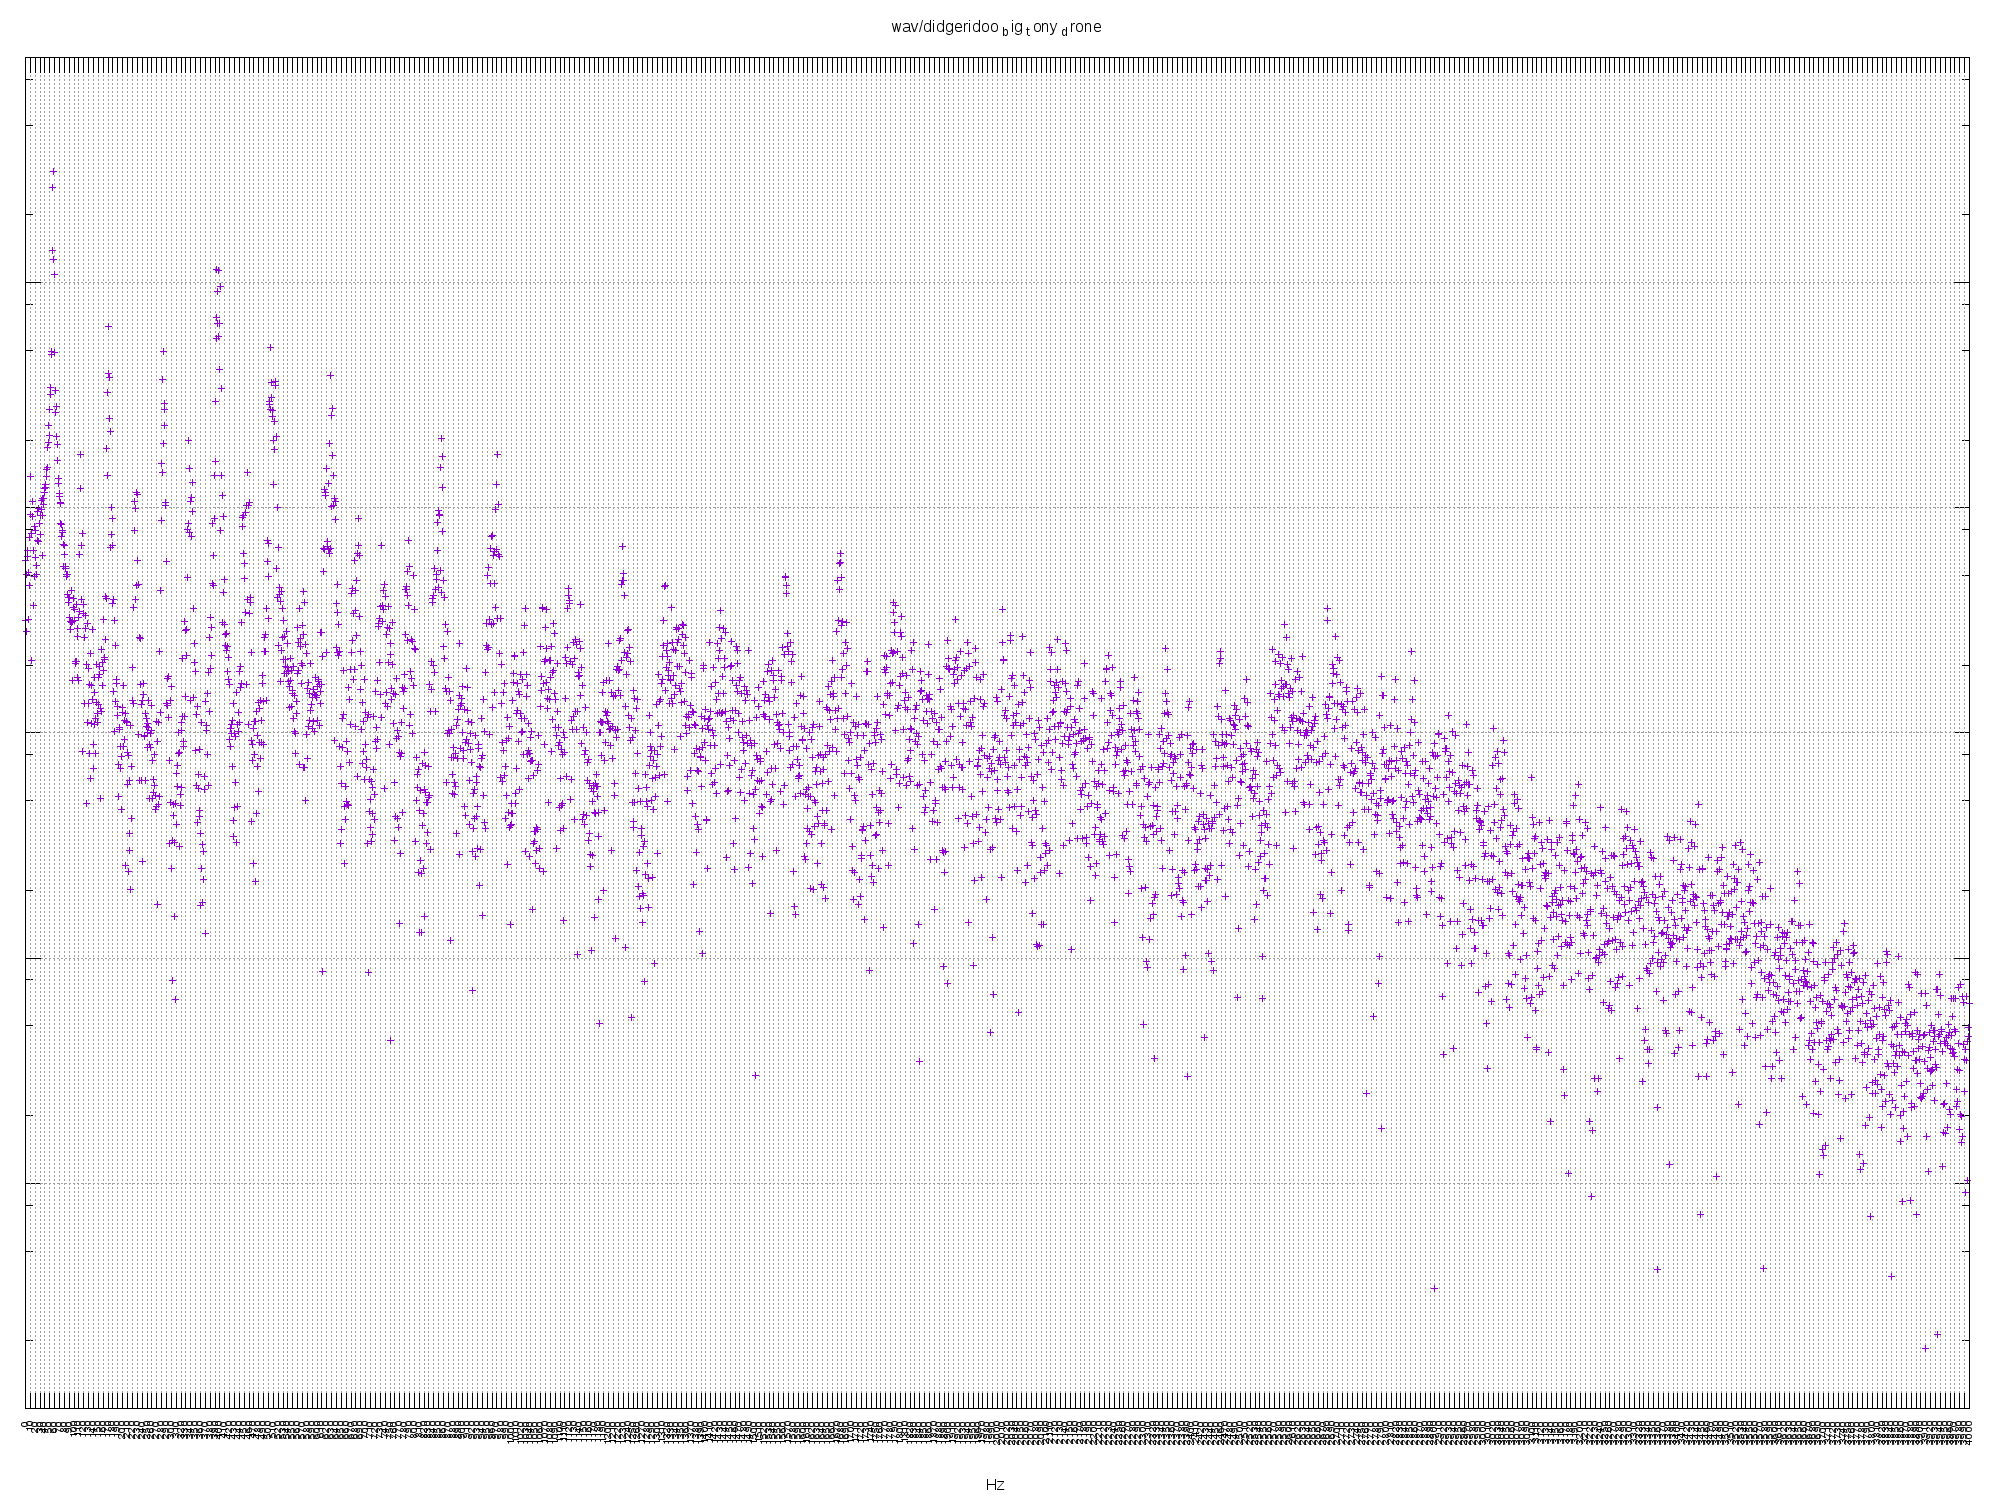
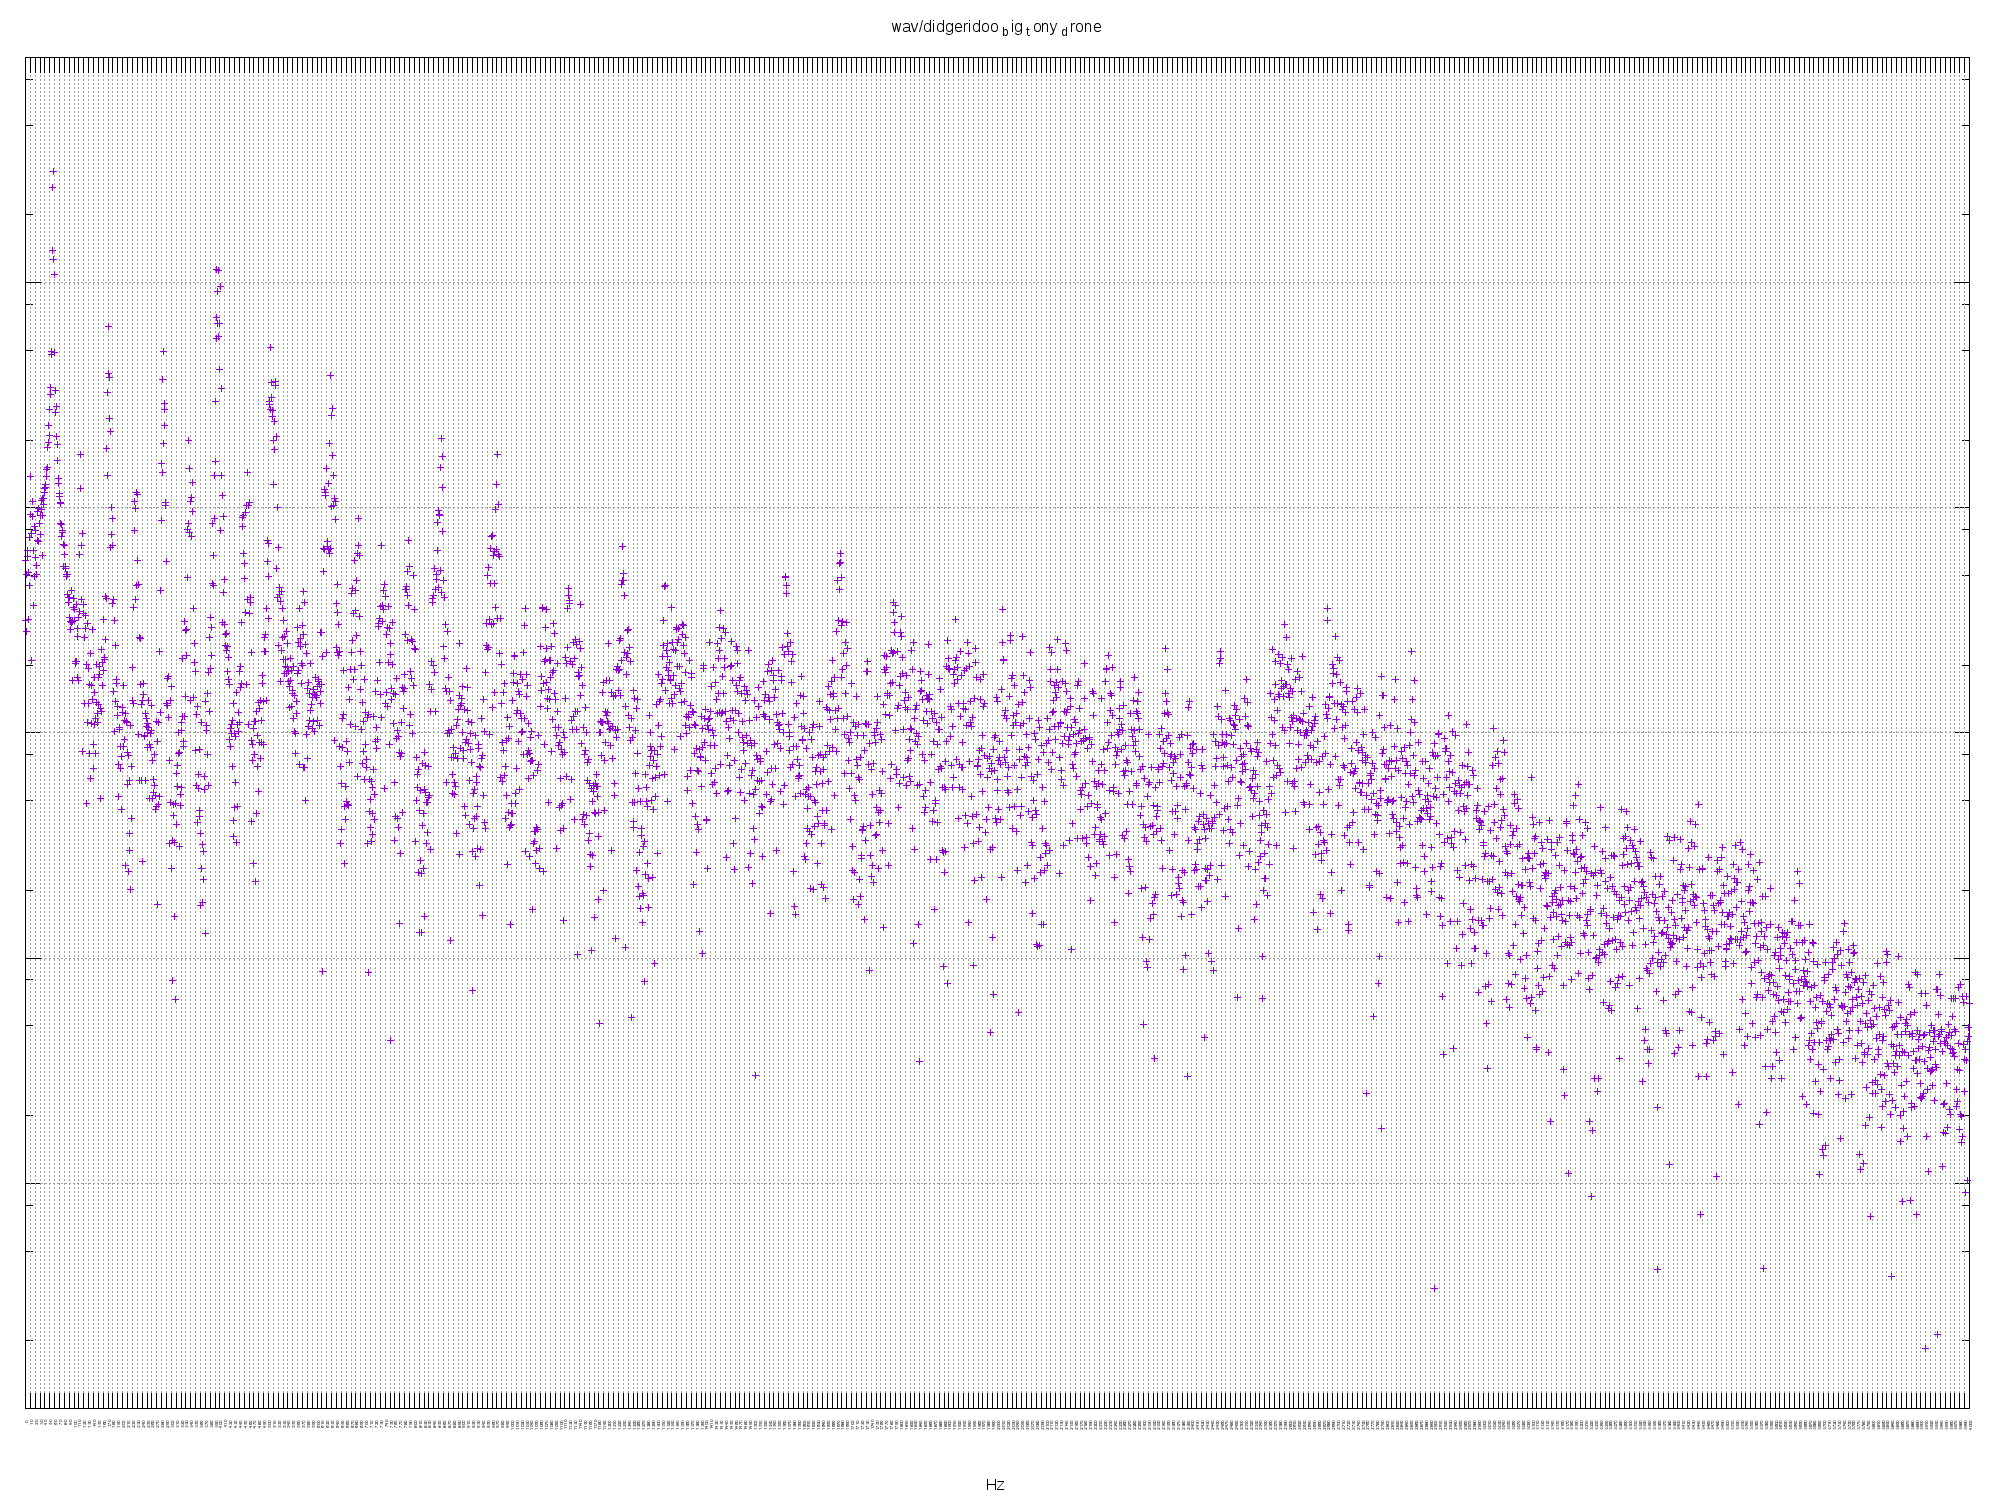
Break alg into lambda, add one to reported max

Changed region(s): [[0.031, 0.92, 0.992, 0.9813]]

diff --git a/dft.cpp b/dft.cpp
@@ -31,7 +31,7 @@ int main(int argc, char **argv) {
       (argc > 1 ? argv[1] : "wav/didgeridoo_big_tony_drone.wav");
 
   // Check audio file is good
-  std::ifstream audio(audio_file, std::ios::binary);
+  std::ifstream audio(audio_file);
   if (audio.good()) {
 
     // Read WAV header
@@ -41,7 +41,6 @@ int main(int argc, char **argv) {
     std::vector<short> samples(8000);
     audio.read(reinterpret_cast<char *>(samples.data()),
                samples.size() * sizeof(short));
-    // std::vector<short> samples(std::istreambuf_iterator<short>(audio), {});
 
     // Analyse samples
     const auto &dft = dft::calculate(std::cbegin(samples), std::cend(samples));
@@ -66,7 +65,7 @@ int main(int argc, char **argv) {
                  << "set xtics rotate\n"
                  << "set xlabel \"Hz\"\n"
                  << "set grid xtics ytics\n"
-                 << "set tics font \"Helvetica,5\"\n"
+                 << "set tics font \"Helvetica,3\"\n"
                  << "set logscale y\n"
                  << "plot \"" << basename + ".csv\" notitle\n";
 
@@ -75,11 +74,13 @@ int main(int argc, char **argv) {
     gnuplot_file.close();
 
     // Report index of highest peak and current input file name
-    std::puts((std::to_string(std::distance(
-                   std::cbegin(dft),
-                   std::max_element(std::cbegin(dft), std::cend(dft)))) +
-               " Hz\t" + audio_file)
-                  .c_str());
+    std::puts(
+        (std::to_string(std::distance(std::cbegin(dft),
+                                      (std::max_element(std::cbegin(dft),
+                                                        std::cend(dft)))) +
+                        1) +
+         " Hz\t" + audio_file)
+            .c_str());
 
     // Call plotter
     const std::string command{"/usr/bin/gnuplot " + basename + ".gnuplot"};

diff --git a/dft.h b/dft.h
@@ -26,6 +26,8 @@ namespace dft {
 template <typename Iterator>
 auto calculate(const Iterator begin, const Iterator end) {
 
+  using namespace std::complex_literals;
+
   // This routine will return the results as a container of frequency bins.
   std::vector<double> dft;
 
@@ -40,18 +42,18 @@ auto calculate(const Iterator begin, const Iterator end) {
   // counter is used to avoid a cast in the subsequent calculation.
   for (double k = 0.0; k < total_samples / 2; ++k) {
 
+    // Definition of our Fourier function
+    const auto sinusoidal =
+        [ n = 0.0, &total_samples, &k ](const auto &sample) mutable {
+      return exp(2i * M_PI * k * n++ / total_samples) * double(sample);
+    };
+
     // Iterate over all samples for the current bin index (k), calculate the
     // response and store the result. Note the sample index (n) is incremented
     // during the calculation. See the Wikipedia link above for the details of
     // the algorithm.
     std::vector<std::complex<double>> fou;
-    std::transform(begin, end, std::back_inserter(fou),
-                   [ n = 0.0, &total_samples, &k ](const auto &sample) mutable {
-                     return exp(std::complex<double>{0.0, 2.0} *
-                                3.14159265358979323846264338328 * k * n++ /
-                                total_samples) *
-                            double(sample);
-                   });
+    std::transform(begin, end, std::back_inserter(fou), sinusoidal);
 
     // Store the absolute sum of all responses for this frequency bin and scale
     // it by the window size (number of samples).

diff --git a/readme.md b/readme.md
@@ -1,6 +1,6 @@
 [![Build Status](https://travis-ci.org/deanturpin/dft.svg?branch=master)](https://travis-ci.org/deanturpin/dft)
 [![codecov](https://codecov.io/gh/deanturpin/dft/branch/master/graph/badge.svg)](https://codecov.io/gh/deanturpin/dft)
-Mon 18 Jun 18:54:02 BST 2018
+Wed 20 Jun 15:52:53 BST 2018
 ```cpp
 #ifndef DFT_H
 #define DFT_H
@@ -30,6 +30,8 @@ namespace dft {
 template <typename Iterator>
 auto calculate(const Iterator begin, const Iterator end) {
 
+  using namespace std::complex_literals;
+
   // This routine will return the results as a container of frequency bins.
   std::vector<double> dft;
 
@@ -44,18 +46,18 @@ auto calculate(const Iterator begin, const Iterator end) {
   // counter is used to avoid a cast in the subsequent calculation.
   for (double k = 0.0; k < total_samples / 2; ++k) {
 
+    // Definition of our Fourier function
+    const auto sinusoidal =
+        [ n = 0.0, &total_samples, &k ](const auto &sample) mutable {
+      return exp(2i * M_PI * k * n++ / total_samples) * double(sample);
+    };
+
     // Iterate over all samples for the current bin index (k), calculate the
     // response and store the result. Note the sample index (n) is incremented
     // during the calculation. See the Wikipedia link above for the details of
     // the algorithm.
     std::vector<std::complex<double>> fou;
-    std::transform(begin, end, std::back_inserter(fou),
-                   [ n = 0.0, &total_samples, &k ](const auto &sample) mutable {
-                     return exp(std::complex<double>{0.0, 2.0} *
-                                3.14159265358979323846264338328 * k * n++ /
-                                total_samples) *
-                            double(sample);
-                   });
+    std::transform(begin, end, std::back_inserter(fou), sinusoidal);
 
     // Store the absolute sum of all responses for this frequency bin and scale
     // it by the window size (number of samples).
@@ -71,25 +73,17 @@ auto calculate(const Iterator begin, const Iterator end) {
 ```
 # BAMBOO DRONE
 [![](wav/bamboo_drone.png)](wav/bamboo_drone.png)
-Peaks at: 72, 143, 215, 286 and 357 Hz.
-
-A cheap bamboo didge with a Sugru mouthpiece. Fundamental of 72 Hz, slightly
-flat of D2, with a full compliment of harmonics across the whole frequency
-range. Not a refined sound and quite difficult to play but very responsive.
-
-```
-73.42	D2
-146.83	D3
-220.00	A3
-293.66	D4
-369.99	F#4
-```
+A cheap bamboo didge with a Sugru mouthpiece. Fundamental of 73 Hz (D2), with
+lots of harmonics across the whole frequency range. Interestingly it's skipping
+every other overtone. An unrefined sound and quite difficult to play (poor back
+pressure).
 Listen to the [audio](wav/bamboo_drone.wav).
 # DIDGERIDOO BIG TONY DRONE
 [![](wav/didgeridoo_big_tony_drone.png)](wav/didgeridoo_big_tony_drone.png)
-Fundamental of 57 Hz, slightly flat of concert Bb1. Key intervals: 1, 3, 5 and 7
-which is Bb Major 7. This didgeridoo was liberated from the dump and is probably
-Eucalyptus: woolybutt, bloodwood and stringybark have been suggested.
+Fundamental of 58 Hz (Bb1). Key intervals are 1, 3, 5 and 7 which is Bb Major 7.
+This didgeridoo was liberated from the dump and is probably Eucalyptus:
+woolybutt, bloodwood and stringybark have been suggested. Very good back
+pressure.
 Listen to the [audio](wav/didgeridoo_big_tony_drone.wav).
 # DIDGERIDOO BIG TONY TOOT
 [![](wav/didgeridoo_big_tony_toot.png)](wav/didgeridoo_big_tony_toot.png)
@@ -129,31 +123,14 @@ probably tending towards a D-Major.
 Listen to the [audio](wav/hobgoblin_didge_8000.wav).
 # JF FIBREGLASS SLIDE
 [![](wav/JF_fibreglass_slide.png)](wav/JF_fibreglass_slide.png)
-Peaks at: 81, 162, 243, 324 Hz.
-
-A fundamental of 81 Hz, just flat of E2. First octave, fifth (B3) and second
-octave all quite strong.
-
-```
-82.41	E2
-164.81	E3
-246.94	B3
-329.63	E4
-```
+Fibreglass didge. A fundamental of 82 Hz (E2). First octave, fifth (B3) and
+second octave all quite strong.
 Listen to the [audio](wav/JF_fibreglass_slide.wav).
 # KP GUEST
 [![](wav/KP_guest.png)](wav/KP_guest.png)
-Fundamental of 82 Hz (E2) with two octaves and a fifth (B). There's also a
+Fundamental of 83 Hz (E2) with two octaves and a fifth (B). There's also a
 hint of 403 Hz (a slightly sharp G4): a minor third. See [the
 scale](https://en.wikipedia.org/wiki/E_minor) on Wikipedia.
-
-```
-82.41	E2
-164.81	E3
-246.94	B3
-329.63	E4
-392.00	G4
-```
 Listen to the [audio](wav/KP_guest.wav).
 # PIANOBB2
 [![](wav/pianoBb2.png)](wav/pianoBb2.png)
@@ -161,40 +138,23 @@ Striking the A2 key on a baby grand piano (no pedal).
 Listen to the [audio](wav/pianoBb2.wav).
 # SINGING BOWL1
 [![](wav/singing_bowl1.png)](wav/singing_bowl1.png)
-Fundamental of 468 Hz (close to A#4) and first octave of 936 Hz. The only bowl
-with a pronounced octave. (Note that the second peak is off the right-hand side
-of the second plot.)
-
-```
-466.16	A#4
-932.33	A#5
-```
+Fundamental of 469 Hz (close to A#4) and first octave of 936 Hz. The only bowl
+with a pronounced octave.
 Listen to the [audio](wav/singing_bowl1.wav).
 # SINGING BOWL2
 [![](wav/singing_bowl2.png)](wav/singing_bowl2.png)
-Fundamental of 89 Hz, close to F2. Significant peaks at 259 Hz and 517 Hz
+Fundamental of 90 Hz, close to F2. Significant peaks at 259 Hz and 517 Hz
 (fifths). Very complex response, I suspect this is a hand-made metal bowl. (I
 recorded the bowls in the dark so I'm not sure which video was which.)
-
-```
-87.31	F2
-261.63	C4
-523.25	C5
-```
 Listen to the [audio](wav/singing_bowl2.wav).
 # SINGING BOWL3
 [![](wav/singing_bowl3.png)](wav/singing_bowl3.png)
-Fundamental exactly 260 Hz, close to C4 (261.63 Hz). Maybe a touch of a fifth
-but really very little overtone presence.
+Fundamental exactly 261 Hz (C4). Maybe a touch of a fifth but really very little
+overtone presence.
 Listen to the [audio](wav/singing_bowl3.wav).
 # SINGING BOWL5
 [![](wav/singing_bowl5.png)](wav/singing_bowl5.png)
-Extremely pure fundamental of 297 Hz. Halfway between D4 and D#4.
-
-```
-293.66	D4
-311.13	D#4
-```
+Extremely pure fundamental of 298 Hz. Halfway between D4 and D#4.
 Listen to the [audio](wav/singing_bowl5.wav).
 # SYNTHESISED CHORD
 [![](wav/synthesised_chord.png)](wav/synthesised_chord.png)
